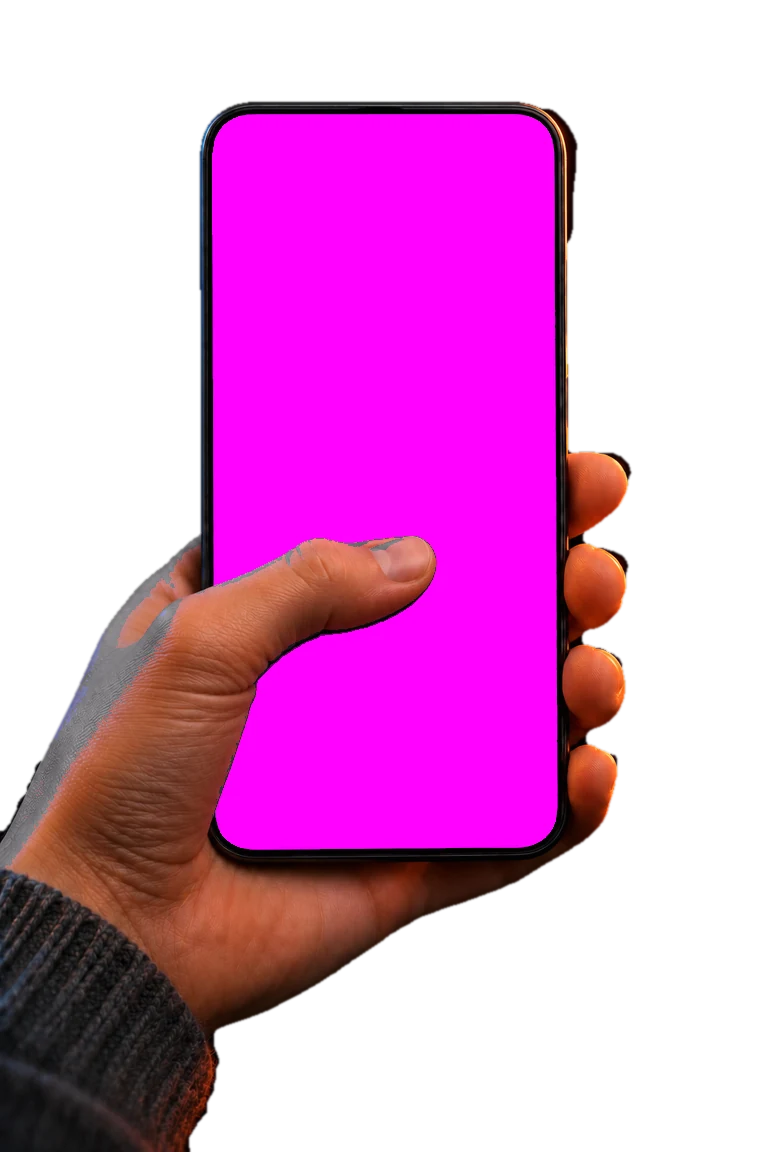
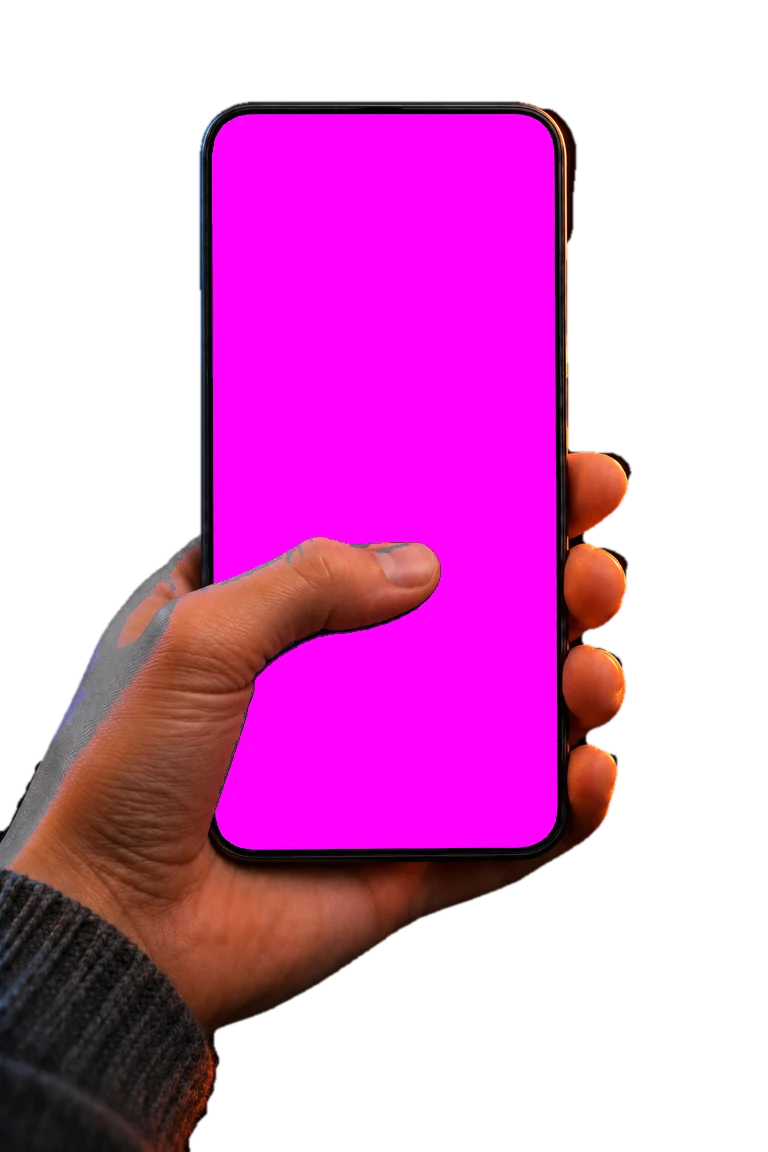
Website: regenerate the sw-a and sw-b swipe poses with a natural thumb
The thumb in the first two frames of the Apps swipe was stretched, swollen and smeared. Both were regenerated as clean in-betweens of the tap and swipe-start poses (art/prompt-J.md) and the frames around them rebuilt.

diff --git a/website/art/build_frames.py b/website/art/build_frames.py
@@ -21,8 +21,10 @@ CACHE = os.path.join(ROOT, 'cache')  # raw RIFE output, reused between runs
 P = {'hold': 'raw/hero-hold', 'dpad-hover': 'raw/thumb-dpad', 'tap': 'raw/thumb-tap', 'swipe-end': 'raw/thumb-swipe'}
 for n in ['reach-1','reach-2','dpad-up','dpad-left','dpad-right','key-low-left','key-low-right','key-mid','swipe-start','swipe-mid','tilt-left','tilt-right']:
     P[n] = f'raw2/{n}'
-for n in ['sw-a','sw-b','sw-c','sw-d','kl-1','kr-1','up-1','left-1','right-1','tl-1','tr-1','lift']:
+for n in ['sw-c','sw-d','kl-1','kr-1','up-1','left-1','right-1','tl-1','tr-1','lift']:
     P[n] = f'raw3/{n}'
+# sw-a / sw-b were regenerated (prompt-J.md): the first versions had a stretched, swollen thumb
+P['sw-a'] = 'raw5/sw-a'; P['sw-b'] = 'raw5/sw-b'
 # direct Codex midpoints for the largest-motion hops (raw4); RIFE only bridges what is left
 MIDS = {  # (a, b): midpoint id
     ('hold', 'reach-1'): 'm-hold-reach1', ('reach-1', 'reach-2'): 'm-reach1-reach2', ('reach-2', 'dpad-hover'): 'm-reach2-hover',

diff --git a/website/art/prompt-J.md b/website/art/prompt-J.md
@@ -1,0 +1,10 @@
+Generate photoreal images with your image generation tool, strictly one at a time, sequentially. Do NOT write code, do NOT ask questions.
+
+REFERENCE FRAMES (same hand, sleeve, phone, lighting, pure black background), all 1024x1536 portrait: /home/yuvraj/Documents/Code_Projects/projector-redesign/AutoKeystone/website/art/raw/thumb-tap.png, /home/yuvraj/Documents/Code_Projects/projector-redesign/AutoKeystone/website/art/raw2/swipe-start.png, /home/yuvraj/Documents/Code_Projects/projector-redesign/AutoKeystone/website/art/raw2/swipe-mid.png, /home/yuvraj/Documents/Code_Projects/projector-redesign/AutoKeystone/website/art/raw/hero-hold.png. They show a right hand holding a phone with a flat magenta #FF00FF screen, the thumb reaching over the glass. The two frames to be replaced, /home/yuvraj/Documents/Code_Projects/projector-redesign/AutoKeystone/website/art/raw3/sw-a.png and /home/yuvraj/Documents/Code_Projects/projector-redesign/AutoKeystone/website/art/raw3/sw-b.png, look wrong: the thumb is too long and flat, smeared, with a swollen base and an unnatural bend.
+
+TASK: create two replacement frames that are the in-between poses on the way from thumb-tap to swipe-start (the thumb starts to drag towards the lower left of the screen, as if beginning a swipe on an app list). Make each as an EDIT of thumb-tap or swipe-start, whichever is nearer. Keep sleeve, fingers on the right edge, phone, magenta screen, rim lighting, pure #000000 background, framing, phone size and phone position IDENTICAL (pixel-registered, the phone must not move at all) and change ONLY the thumb. The thumb must look like a real, relaxed human thumb: normal length and thickness, the thumb pad (not the nail) pressing on the glass at the very tip, a natural slight bend at the joint, the base of the thumb joining the palm smoothly, the nail visible and facing the camera at a natural angle, a soft contact shadow on the screen. No swelling, no stretched or duplicated parts, no ghosting, clean edges against the magenta with no pink or purple fringe. The screen is flat uniform magenta with no UI and no glare, hidden only where the thumb covers it.
+
+Save into /home/yuvraj/Documents/Code_Projects/projector-redesign/AutoKeystone/website/art/raw5/ with exactly these names:
+1. sw-a.png  (a third of the way from thumb-tap to swipe-start)
+2. sw-b.png  (two thirds of the way from thumb-tap to swipe-start)
+Print the saved paths when done.

diff --git a/website/README.md b/website/README.md
@@ -68,3 +68,4 @@ The site says so in a footnote: app screens are illustrations.
 - D-pad: `public/assets/ui/dpad.webp` has the pad moved and scaled so the thumb of each pose (`dpad-hover`, `up-1`, `left-1`, `right-1`, `tap`) lands on its button; `PAD` in `main.js` and `tipOf` in `stage.js` use the same positions. Change one, change all three.
 - The nav lens has no blur in any engine (the CSS fallback used to blur the labels); the Auto keystone status and actions are centred with left/right + text-align, not a translate (GSAP baked a stale pixel offset into it).
 - Hand matte, second pass: a brightness-only threshold cut the shadowed underside of the palm off with a hard edge (the raw frames have a pure black background, value ~1, but the shaded skin is only 12-45). `matte()` now keeps any warm pixel (R-B >= 6) down to value 12, and the sleeve region down to 8, so the whole heel of the hand and the cuff survive. The left and bottom edges of the hand plane are not feathered in the shader (the arm leaves the photo there).
+- Swipe poses `sw-a` and `sw-b` (the Apps chapter) were regenerated with Codex (`art/prompt-J.md`, output in `art/raw5/`, listed in `build_frames.py`): the first versions had a long, swollen, smeared thumb. The cached RIFE in-betweens around them were deleted and rebuilt.
